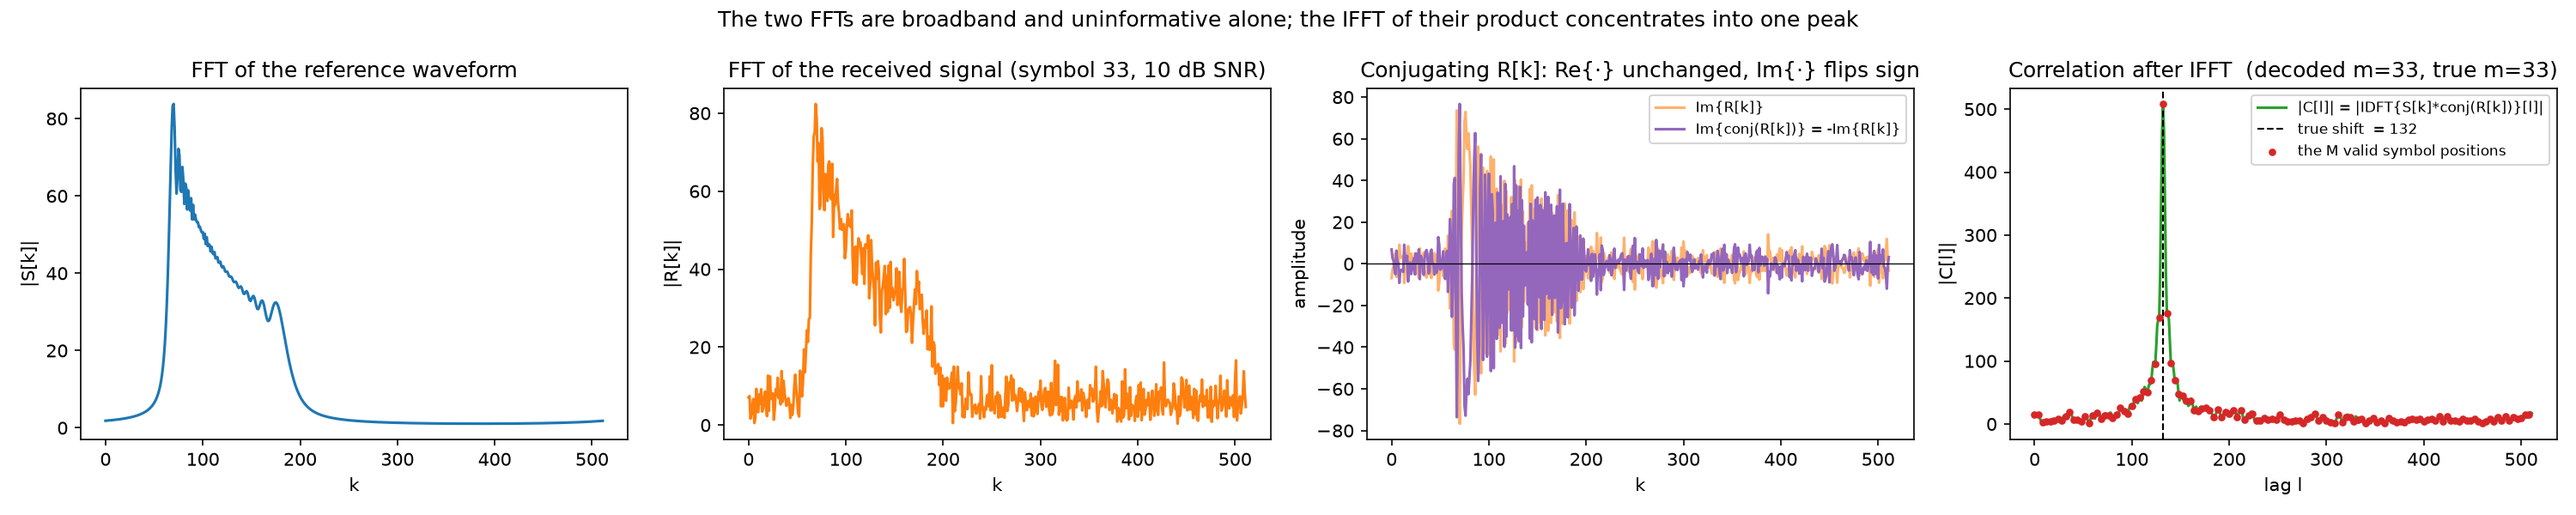
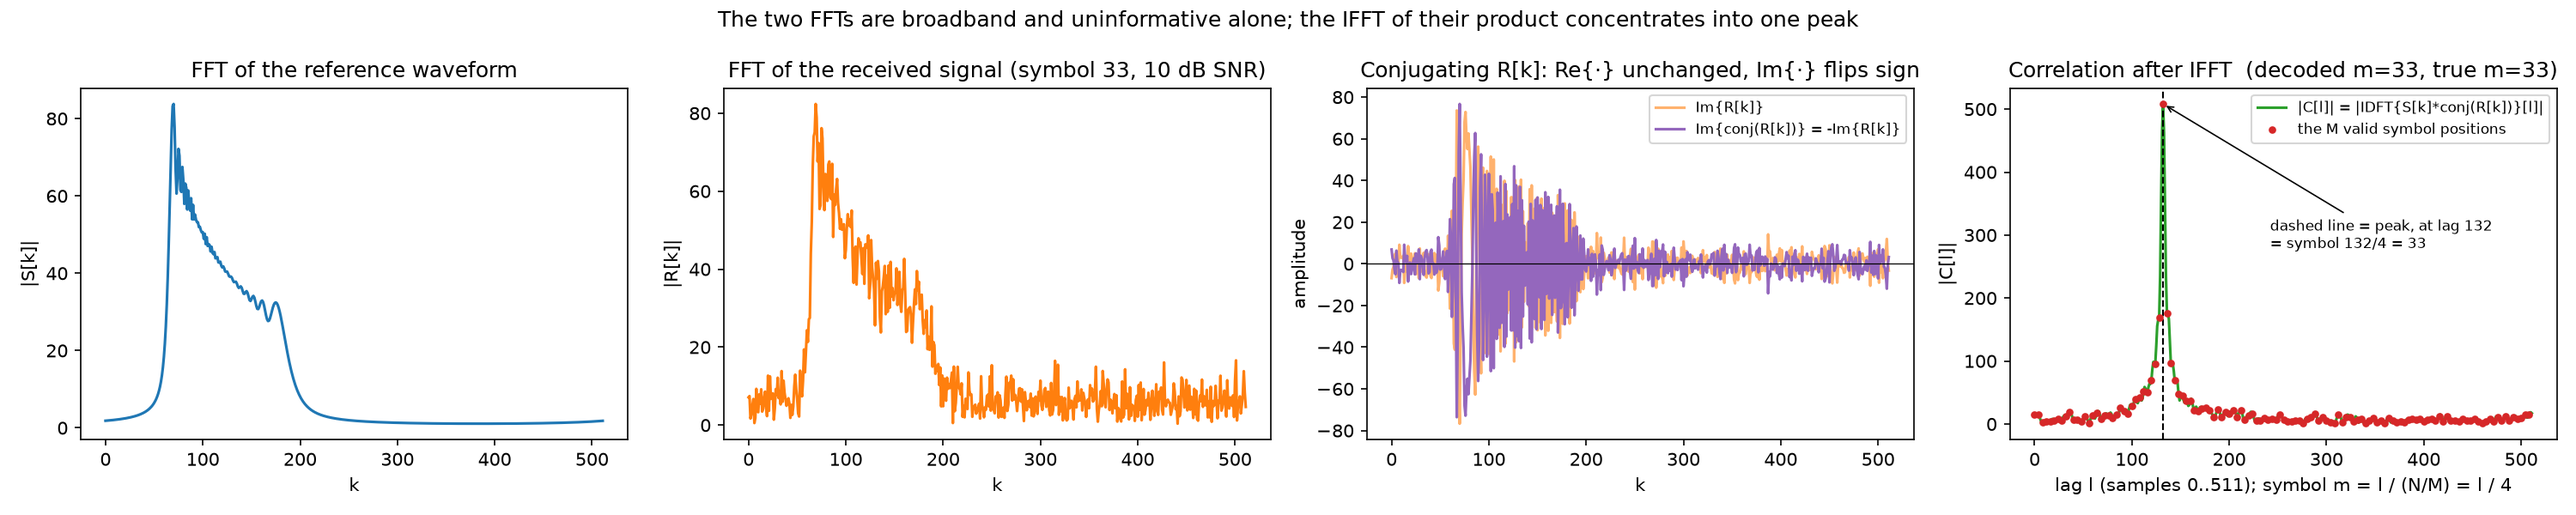
Annotate the lag-to-symbol conversion in 13_fft_correlation_demo.png
Raised question: the correlation panel's peak sits at lag 132, not
"33" -- not a discrepancy, but the plot didn't make the conversion
explicit. Lag 132 IS symbol 33: tau_33 = round(33*512/128) = 132
(chirp.py's cyclic-shift formula from Chapter 1), and decoding divides
back by N/M=4 to recover the symbol index. fft_correlation_demod
itself never actually does this division explicitly -- it indexes
corr[valid_lags], an array already ordered 0..M-1 per symbol, so
argmax on that array returns the symbol directly.

Add an annotated arrow on the peak spelling out "lag 132 = symbol
132/4 = 33", update the x-axis label to state the lag/symbol relation,
and rewrite the surrounding NARRATIVE.md and README.md prose to walk
through the same arithmetic explicitly instead of leaving it implicit.

Claude-Session: https://claude.ai/code/session_01JYjBKKycGVqv95onyZBz3b

Changed region(s): [[0.868, 0.24, 0.992, 0.33], [0.868, 0.42, 0.961, 0.48], [0.806, 0.93, 0.961, 0.96]]

diff --git a/examples/run_experiments.py b/examples/run_experiments.py
@@ -176,10 +176,18 @@ def plot_fft_correlation_demo():
     axes[2].set(xlabel="k", ylabel="amplitude", title="Conjugating R[k]: Re{·} unchanged, Im{·} flips sign")
     axes[2].legend(fontsize=8, loc="upper right")
 
+    n_over_m = n // cfg.M
     axes[3].plot(np.abs(corr), color="tab:green", label="|C[l]| = |IDFT{S[k]*conj(R[k])}[l]|")
-    axes[3].axvline(tau_true, color="k", linestyle="--", linewidth=1, label=f"true shift  = {tau_true}")
+    axes[3].axvline(tau_true, color="k", linestyle="--", linewidth=1)
     axes[3].scatter(valid_lags, np.abs(corr[valid_lags]), s=10, color="tab:red", zorder=3, label="the M valid symbol positions")
-    axes[3].set(xlabel="lag l", ylabel="|C[l]|", title=f"Correlation after IFFT  (decoded m={m_hat}, true m={m_true})")
+    peak_y = np.abs(corr[tau_true])
+    axes[3].annotate(
+        f"dashed line = peak, at lag {tau_true}\n= symbol {tau_true}/{n_over_m} = {m_hat}",
+        xy=(tau_true, peak_y), xytext=(tau_true + 110, peak_y * 0.55),
+        fontsize=8, ha="left", arrowprops=dict(arrowstyle="->", color="black", lw=0.8),
+    )
+    axes[3].set(xlabel=f"lag l (samples 0..{n-1}); symbol m = l / (N/M) = l / {n_over_m}", ylabel="|C[l]|",
+                title=f"Correlation after IFFT  (decoded m={m_hat}, true m={m_true})")
     axes[3].legend(fontsize=8, loc="upper right")
 
     fig.suptitle("The two FFTs are broadband and uninformative alone; the IFFT of their product concentrates into one peak")

diff --git a/NARRATIVE.md b/NARRATIVE.md
@@ -305,9 +305,23 @@ two waveforms actually line up, and mostly cancel elsewhere. The fourth
 panel is the payoff: multiplying those two spectra together and taking one
 IFFT concentrates all of that spread-out energy into a single sharp spike,
 sitting exactly at the true shift (dashed line). The red dots are the `M`
-positions `τ_m` actually correspond to real symbols — `argmax` over just
-those `M` points is the whole decoder, and it lands on the correct one
+positions `τ_m` that actually correspond to real symbols — `argmax` over
+just those `M` points is the whole decoder, and it lands on the correct one
 here.
+
+**One thing worth being precise about, since it's easy to misread:** the
+fourth panel's x-axis is `lag l`, a *sample-domain shift* (0 to `N-1` = 511
+here), not the symbol index directly. The peak sits at lag 132, not at
+"33" — that's not a discrepancy, it's Chapter 1's `τ_m = round(m·N/M)`
+formula showing up again: symbol 33's cyclic shift is `round(33·512/128) =
+132` samples, so the peak *is* symbol 33, expressed in samples instead of
+symbol index. To go from a peak lag back to a symbol, divide by `N/M = 4`:
+`132 / 4 = 33`. Concretely, decoding never actually reads the lag off the
+full curve — `fft_correlation_demod` only ever looks at `corr[valid_lags]`,
+an array already indexed `0..M-1` one entry per symbol, and `argmax` on
+*that* array returns the symbol index directly, no conversion needed. The
+annotation on the plot spells out the same arithmetic for anyone reading
+the lag axis by eye.
 
 The mental model for the difference between Chapter 3 and this chapter:
 

diff --git a/README.md b/README.md
@@ -149,6 +149,10 @@ trajectories at SF7 / 125 kHz (a standard LoRa configuration):
   then `|IDFT{S[k]*conj(R[k])}[l]|`, the correlation recovered from their
   product -- a single sharp peak at the true shift, versus the noise floor
   and the two broad, individually uninformative spectra it was built from.
+  The peak's x-position is a *lag* (132 samples), not the symbol index
+  directly -- the annotation on the plot spells out the conversion
+  (`132 / (N/M) = 132/4 = symbol 33`), matching `chirp.py`'s
+  `τ_m = round(m*N/M)`.
 - **`14_ser_vs_snr_all_shapes.png`** -- every trajectory shape's SER-vs-SNR
   waterfall on one plot, all decoded with `fft_correlation_demod` so the
   comparison is fair. The curves sit almost on top of each other --
